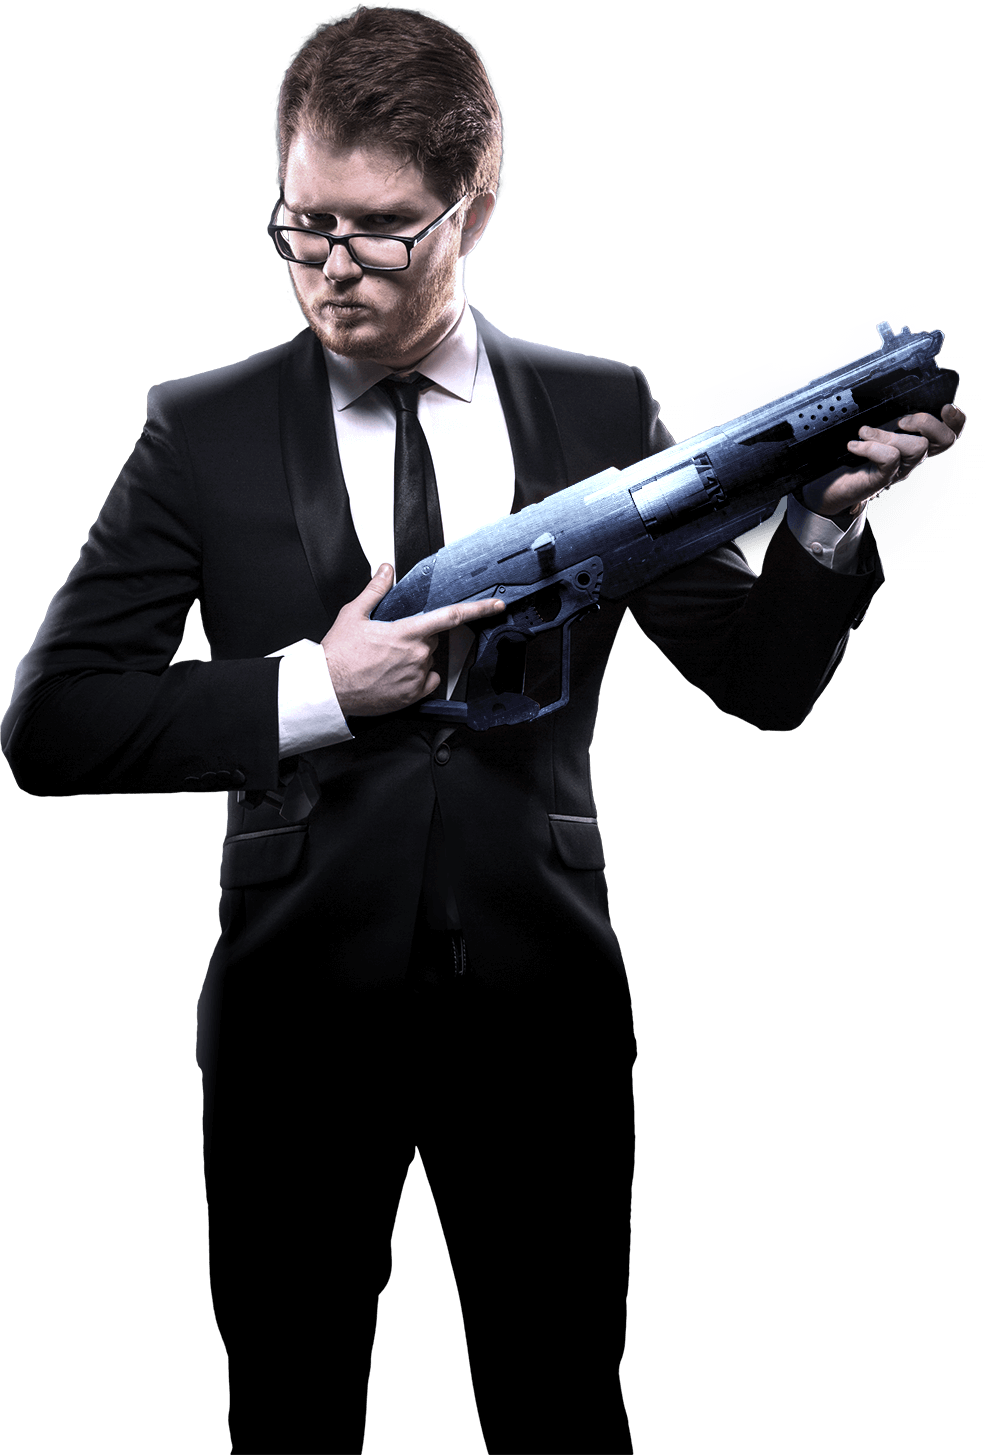
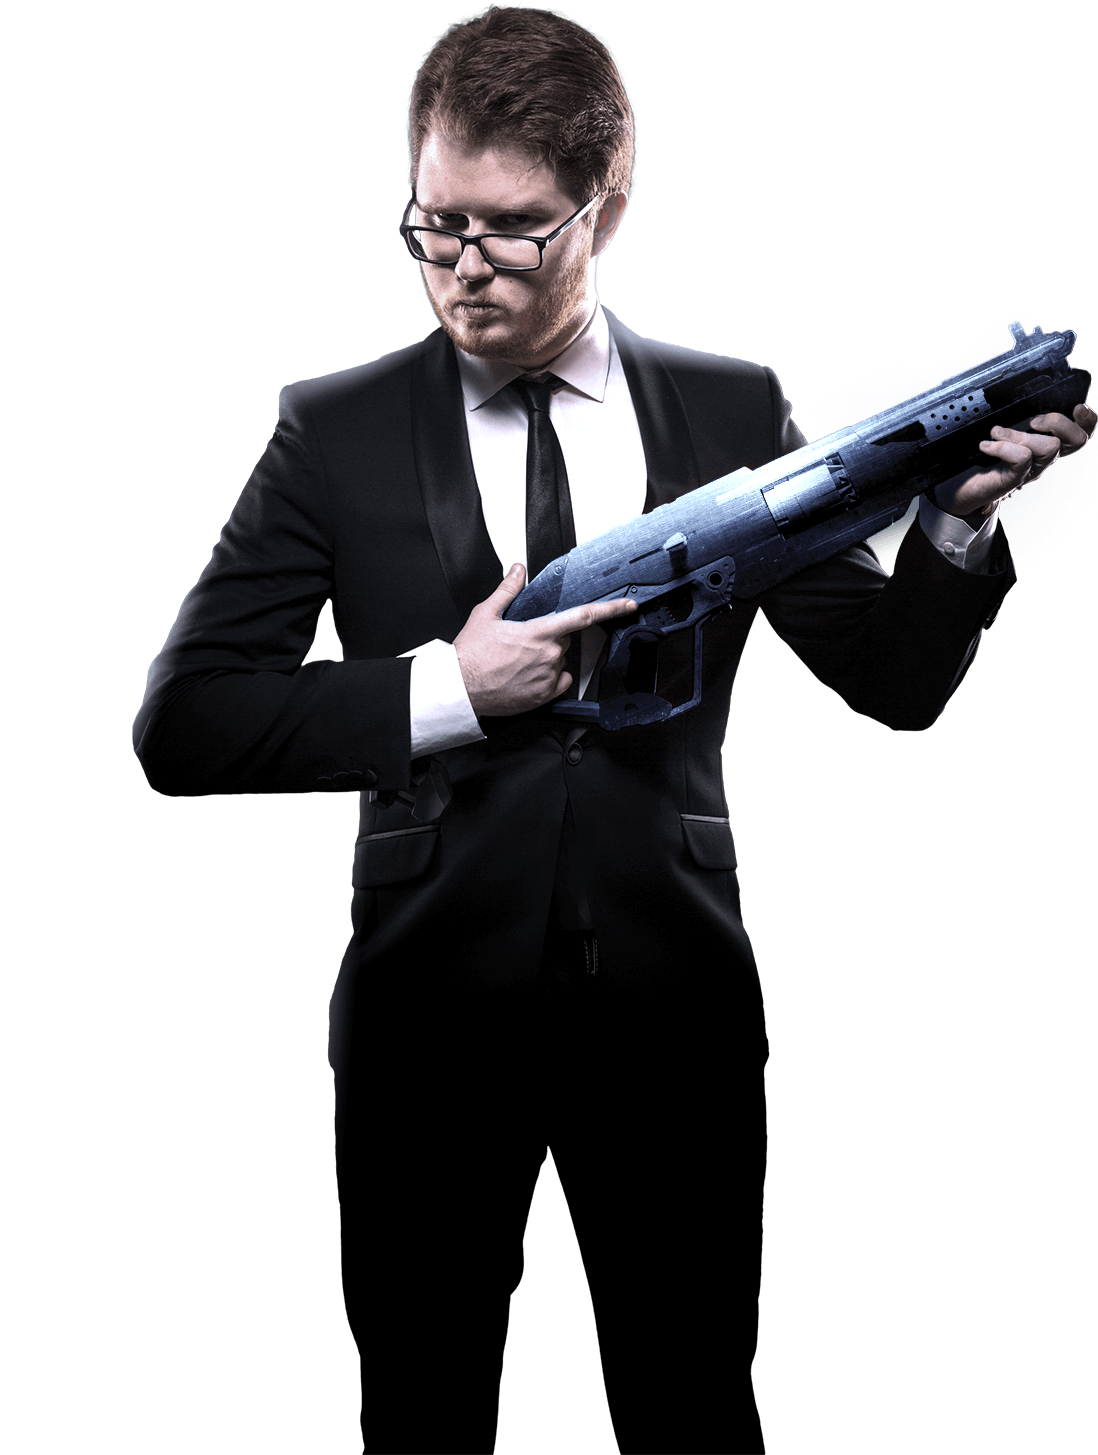
1.14 чак по центру, slide button

diff --git a/chuck-styles.css b/chuck-styles.css
@@ -147,15 +147,64 @@ nav a:hover {
     flex-direction: column;
     justify-content: center;
     align-items: center;
-    bottom: 150px;
+    bottom: 180px;
+}
+
+.name-slide-container img {
+    /transform: scale(0.7);
 }
 
 .slide-down {
-    width: 50px;
+    position: relative;
+    width: 70px;
     height: 50px;
+}
+
+.slide-down::before, .slide-down::after {
+    content: "";
+    display: block;
+    width: 40px;
+    height: 40px;
     border: 2px solid white;
     border-left-color: transparent;
     border-top-color: transparent;
-    transform: rotate(45deg);
+    transform: rotate(40deg) skewX(-10deg)   ;
     cursor: pointer;
+    
+    animation-name: slide-down;
+    animation-duration: 1.5s;
+    animation-iteration-count: infinite;
+    animation-timing-function: linear;
+    
+    position: absolute;
+    top: 0;
+    bottom: 0;
+    right: 0;
+    left: 0;
+    margin: auto;
+}
+
+.slide-down::before {
+    /transform: translateY(30px) rotate(40deg) skewX(-10deg);
+    top: -30px;
+}
+
+.slide-down::after {
+    animation-delay: 0.2s;
+}
+
+@keyframes slide-down {
+    0% {
+        transform: translateY(0px) rotate(40deg) skewX(-10deg);
+        opacity: 0;
+    }
+    
+    50% {
+        opacity: 1;    
+    }
+    
+    100% {
+        transform: translateY(10px) rotate(40deg) skewX(-10deg);
+        opacity: 0;
+    }
 }

diff --git a/chuck.html b/chuck.html
@@ -32,10 +32,10 @@
             <main>
                 <div class="main-list">
                     <h1 class="none">Нержавеющий</h1>
-                    <img src="chuck.png" width="496" height="727" class="chuck">
+                    <img src="chuck.png" width="549" height="727" class="chuck">
                     
                     <div class="name-slide-container">
-                        <img src="name.png" width="709" height="87" class="title">
+                        <img src="name.png" width="496" height="61" class="title">
                         <div class="slide-down"></div>
                     </div>
                 </div>    
